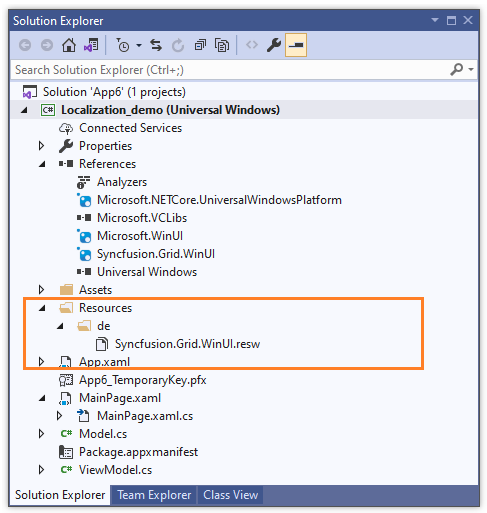
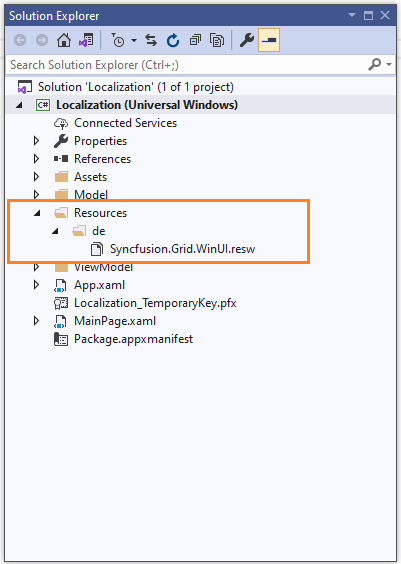
WINUI-194 Prepare WinUI Localization(images added)

Changed region(s): [[0.0, 0.0, 1.0, 1.0], [0.0599, 0.8421, 0.0898, 0.8733]]

diff --git a/winui/localization.md b/winui/localization.md
@@ -19,14 +19,14 @@ We can change the application culture by assigning the `CultureInfo.CurrentUICul
 
 {% highlight c# %}
 
-public sealed partial class MainPage
-{
-    public MainPage()
+    public sealed partial class MainPage
     {
-        CultureInfo.CurrentUICulture = new CultureInfo("de");
-        this.InitializeComponent();
+        public MainPage()
+        {
+            CultureInfo.CurrentUICulture = new CultureInfo("de");
+            this.InitializeComponent();
+        }
     }
-}
 
 {% endhighlight %}
 
@@ -34,21 +34,23 @@ public sealed partial class MainPage
 
 ## Creating .resw files
 
-You can create .resw files for any language by following steps,
+You can create .resw files for any language by following the steps below,
 
 1) Right click your project and add new folder named Resources.
 
-2) Add another folder and name the folder name as culture name. For example, you have to give name as de for German culture. Find the supported culture codes from [here](https://docs.microsoft.com/en-us/openspecs/windows_protocols/ms-lcid/a9eac961-e77d-41a6-90a5-ce1a8b0cdb9c)
+2) Add another folder and name the folder name as culture name. For example, you have to give name as de for German culture. Find the supported culture codes from [here](https://docs.microsoft.com/en-us/windows/uwp/app-resources/how-rms-matches-lang-tags) 
 
 3) Add default resource files in the following structure.
 
-![SfDatagrid resw file](Localization-images/resource.png)
+![WinUI DataGrid resw file](Localization-images/resource.png)
 
-N> Consider you are using SfDataGrid control in your application. Then you need to copy and include `Syncfusion.Grid.WinUI.resw` (SfDataGrid present in Syncfusion.Grid.WinUI library) file in your application under Resources folder. So, now you can know the key names and values of default strings used in Syncfusion.Grid.WinUI library.
+N> Consider you are using `SfDataGrid` control in your application. Then you need to copy and include `Syncfusion.Grid.WinUI.resw` (SfDataGrid present in Syncfusion.Grid.WinUI library) file in your application under Resources folder. So, now you can know the key names and values of default strings used in Syncfusion.Grid.WinUI library.
 
 4) Now, you can define the key names from default resource files and assign value based on the culture.
 
-![Localized text for SfDataGrid in German](Localization-images/key.png)
+![WinUI DataGrid Localization](Localization-images/key.png)
+
+> [Download demo from GitHub](https://github.com/SyncfusionExamples/winui-datagrid-localization)
 
 ## Editing default culture strings
 
